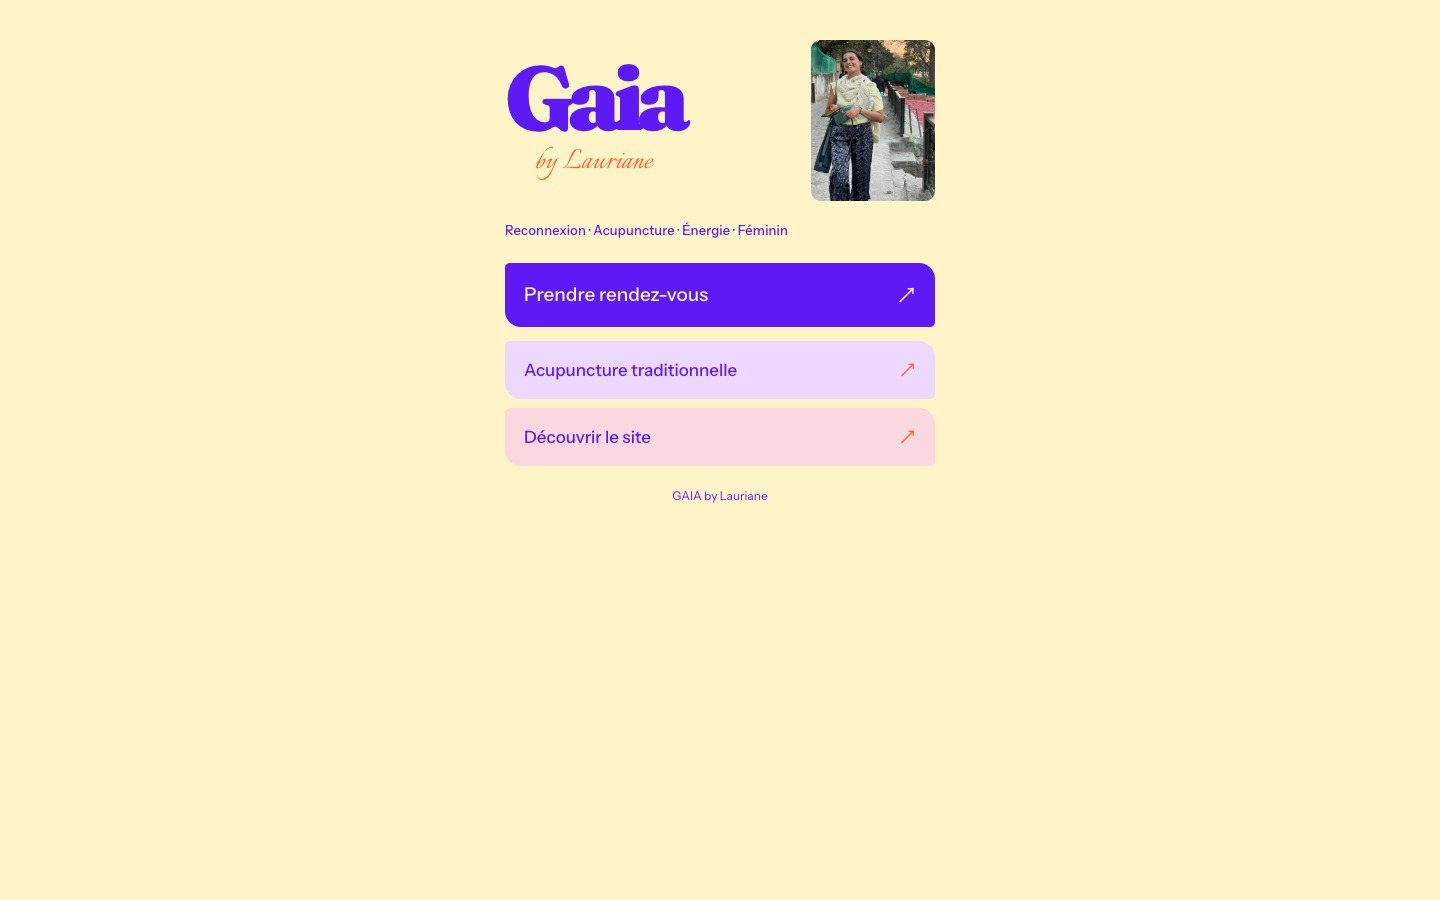
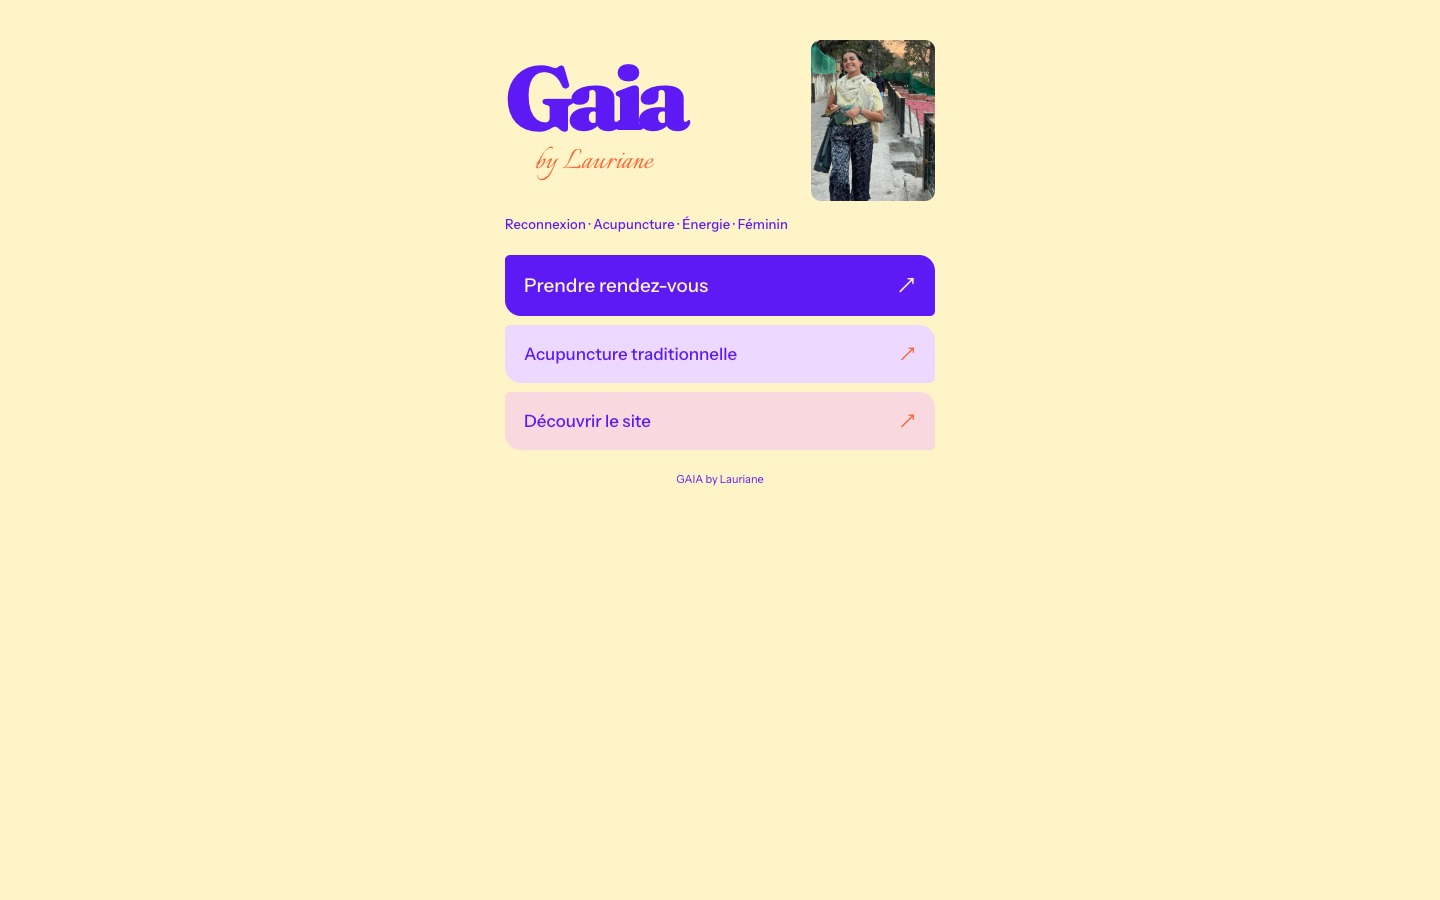
Update Site source

Changed region(s): [[0.3438, 0.2178, 0.6562, 0.56]]

diff --git a/src/styles/links-page.css b/src/styles/links-page.css
@@ -1,6 +1,6 @@
 @font-face{font-family:'Instrument Sans';src:url('/fonts/InstrumentSans-Latin-Variable.woff2') format('woff2');font-weight:100 900;font-display:swap}
 @font-face{font-family:'GAIA Signature';src:url('/fonts/Italianno-Latin-Regular.woff2') format('woff2');font-weight:400;font-display:swap}
 .links-shell{margin:0;background:#FFF4C7;color:#5E1AF4;font-family:'Instrument Sans',sans-serif;-webkit-font-smoothing:antialiased}
-.links-shell *{box-sizing:border-box}.links-poster{width:min(100% - 40px,430px);margin:40px auto 24px}.links-shell a{color:inherit;text-decoration:none}.links-identity{display:flex;align-items:center;justify-content:space-between;gap:24px}.links-wordmark{font:900 90px/.82 'Fraunces Variable',serif;letter-spacing:-.09em;font-variation-settings:'wght' 900,'SOFT' 100,'WONK' 1}.links-wordmark span{display:block;font:400 35px/1 'GAIA Signature',cursive;color:#FF6230;letter-spacing:0;text-align:center;margin-top:10px}.links-identity img{width:124px;height:auto;object-fit:contain;border-radius:10px;display:block}.links-positioning{font-size:13px;line-height:1.5;font-weight:500;letter-spacing:.015em;margin:20px 0 22px}.links-primary{display:grid;gap:9px}.links-primary a{display:flex;align-items:center;justify-content:space-between;gap:12px;min-height:58px;padding:15px 19px;font-size:17px;font-weight:500;border-radius:5px 16px 5px 16px;transition:transform 140ms ease-out}.links-primary .links-book{background:#5E1AF4;color:#FFF4C7;min-height:64px;margin-bottom:5px;font-size:19px}.links-primary .links-book span{color:#FFF4C7}.links-practice span,.links-secondary span{color:#FF6230}.tone-0{background:#EDD8FF}.tone-1{background:#FAD8DF}.tone-2{background:#E3CBFB}.tone-3{background:#FFE0C8}.links-shell a span[aria-hidden]{transition:transform 140ms ease-out}.links-shell a:hover span[aria-hidden]{transform:translateX(3px)}.links-primary a:hover{transform:translateY(-1px)}.links-contact{margin-top:22px}.links-contact a{display:flex;align-items:center;justify-content:center;gap:22px;min-height:48px;font-size:16px;background:transparent;border-radius:0}.links-contact a span{color:#FF6230}.links-contact p{text-align:center;font-size:12px;margin:20px 0 0}.links-shell a:focus-visible{outline:3px solid #5E1AF4;outline-offset:4px}.links-primary .links-book:focus-visible{outline-color:#FF6230}
+.links-shell *{box-sizing:border-box}.links-poster{width:min(100% - 40px,430px);margin:40px auto 32px}.links-shell a{color:inherit;text-decoration:none}.links-identity{display:flex;align-items:center;justify-content:space-between;gap:24px}.links-wordmark{font:900 90px/.82 'Fraunces Variable',serif;letter-spacing:-.09em;font-variation-settings:'wght' 900,'SOFT' 100,'WONK' 1}.links-wordmark span{display:block;font:400 35px/1 'GAIA Signature',cursive;color:#FF6230;letter-spacing:0;text-align:center;margin-top:10px}.links-identity img{width:124px;height:auto;object-fit:contain;border-radius:10px;display:block}.links-positioning{font-size:13px;line-height:1.5;font-weight:500;letter-spacing:.015em;margin:14px 0 20px}.links-primary{display:grid;gap:9px}.links-primary a{display:flex;align-items:center;justify-content:space-between;gap:12px;min-height:58px;padding:15px 19px;font-size:17px;font-weight:500;border-radius:5px 16px 5px 16px;transition:transform 140ms ease-out}.links-primary .links-book{background:#5E1AF4;color:#FFF4C7;min-height:61px;margin-bottom:0;font-size:19px}.links-primary .links-book span{color:#FFF4C7}.links-practice span,.links-secondary span{color:#FF6230}.tone-0{background:#EDD8FF}.tone-1{background:#FAD8DF}.tone-2{background:#E3CBFB}.tone-3{background:#FFE0C8}.links-shell a span[aria-hidden]{transition:transform 140ms ease-out}.links-shell a:hover span[aria-hidden]{transform:translateX(3px)}.links-primary a:hover{transform:translateY(-1px)}.links-contact{margin-top:22px}.links-contact a{display:flex;align-items:center;justify-content:center;gap:22px;min-height:48px;font-size:16px;background:transparent;border-radius:0}.links-contact a span{color:#FF6230}.links-contact p{text-align:center;font-size:11px;font-weight:400;margin:18px 0 0}.links-shell a:focus-visible{outline:3px solid #5E1AF4;outline-offset:4px}.links-primary .links-book:focus-visible{outline-color:#FF6230}
 @media(max-width:480px){.links-poster{margin-top:24px}.links-wordmark{font-size:82px}.links-identity img{width:110px}.links-positioning{font-size:12px}.links-primary a{font-size:16px}.links-primary .links-book{font-size:18px}}
 @media(prefers-reduced-motion:reduce){.links-primary a,.links-shell a span[aria-hidden]{transition:none}.links-primary a:hover,.links-shell a:hover span[aria-hidden]{transform:none}}
